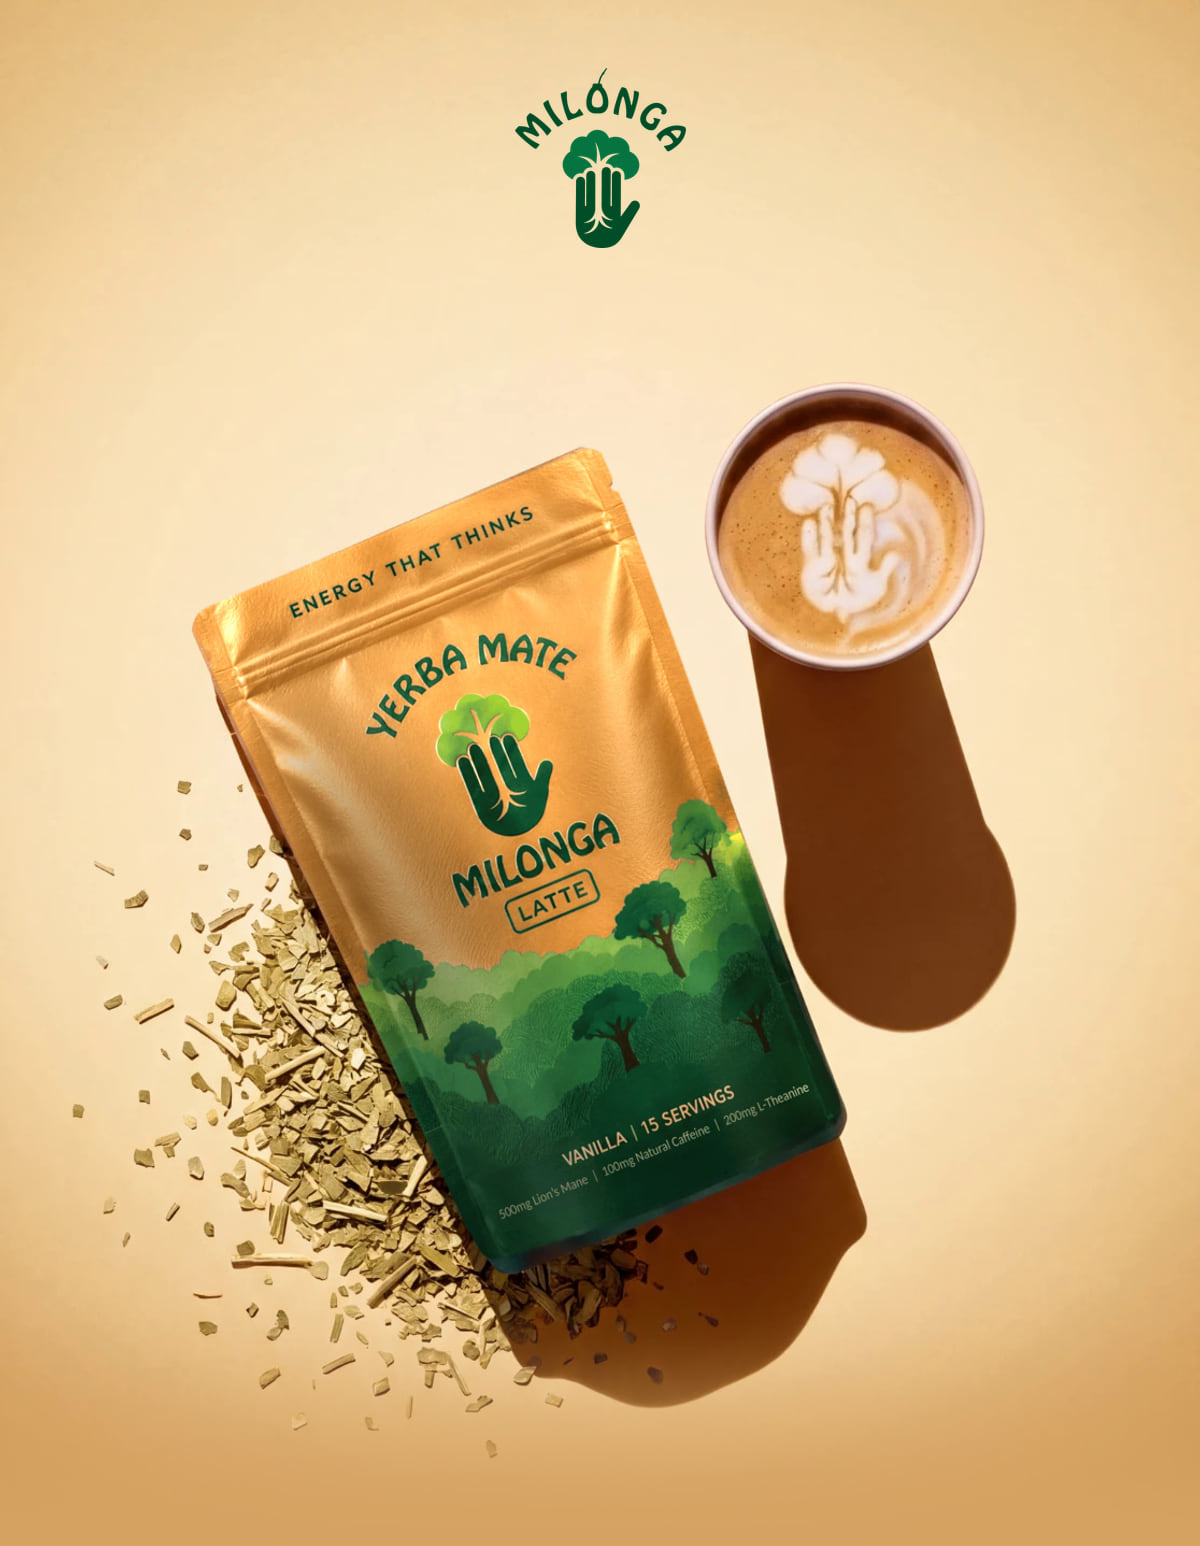
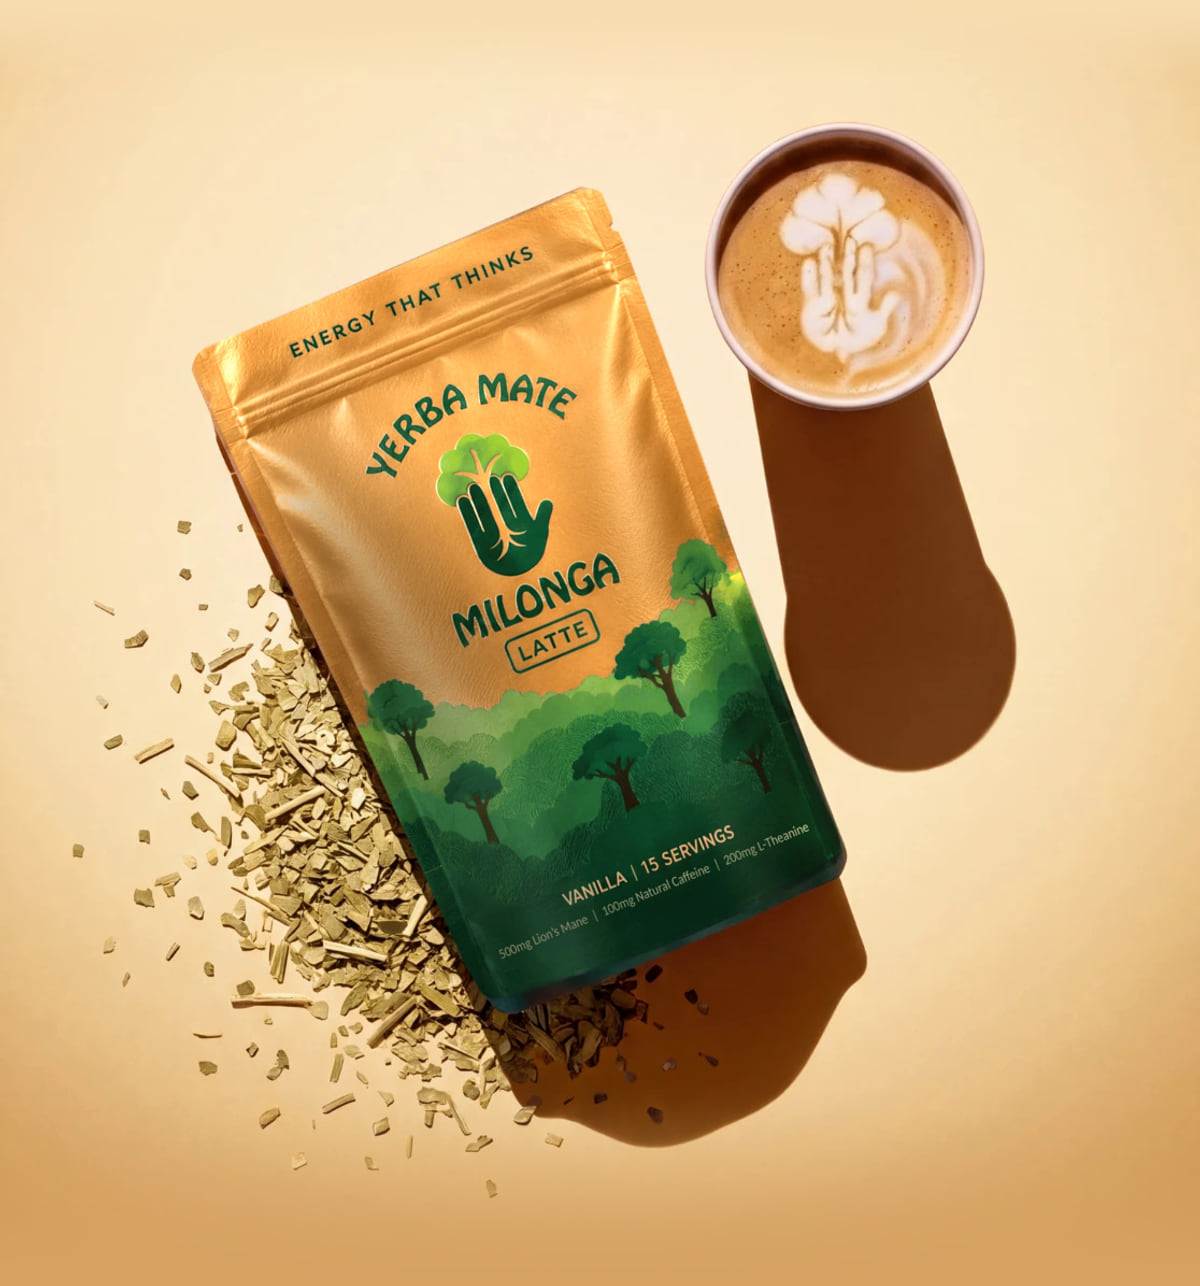
Cart E1: text above the photos, variant image from Shopify's Added to Cart, free frother + scoop in the club card, current prices
Claude-Session: https://claude.ai/code/session_01NhEtXPnfeCJfN73SqBkUZ5

diff --git a/email-ds/refine/cart-e1.html b/email-ds/refine/cart-e1.html
@@ -16,8 +16,8 @@ body{margin:0;background:#FFFFFF;padding:28px 0 60px}
   CART ABANDONMENT · MATE LATTE · EMAIL 1 · "You left something good behind ☕" · the whole email
   Preview text: We saved your cart. Your creamy vanilla mornings are one click away.
   Send: 1 hour after Added to Cart (Mate Latte in the cart). No discount.
-  One complete HTML email for a Klaviyo CODE template. The cart rows show the first
-  item of the Added to Cart event's items list.
+  One complete HTML email for a Klaviyo CODE template. The cart rows read Shopify's Added to Cart
+  event (the variant's image, price and quantity): trigger the flow on THAT event.
   GENERATED by scripts/make-cart-e1.mjs. Edit the script, not this file.
 -->
 <style>
@@ -54,7 +54,7 @@ body{margin:0;background:#FFFFFF;padding:28px 0 60px}
   @media (prefers-color-scheme: dark) {
     .bg-white { background-color:#FFFFFF !important; }
     .bg-page { background-color:#F0EFDF !important; }
-    .bg-hero-top { background-color:#E8C58D !important; }
+    .bg-hero-top { background-color:#F6DCAF !important; }
     .bg-hero { background-color:#D5A262 !important; }
     .bg-wall { background-color:#E4B77E !important; }
     .bg-table { background-color:#EDE4D9 !important; }
@@ -64,25 +64,26 @@ body{margin:0;background:#FFFFFF;padding:28px 0 60px}
 <tr><td align="center">
 <table role="presentation" class="wrap" width="600" cellpadding="0" cellspacing="0" border="0" style="width:600px;max-width:600px;table-layout:fixed;">
 
-<!-- ── 1 · YOUR MATE LATTE IS WAITING (the photo is the section's background:
-     its top and bottom fade into the flat golds of the rows around it, and the
-     same gold carries on under Klaviyo's cart block and the button) ── -->
-<tr><td class="bg-hero-top" bgcolor="#E8C58D" style="background-color:#E8C58D;padding:0;font-size:0;line-height:0;"><a href="{{ event.extra.checkout_url|default:'https://milonga.life/cart' }}" target="_blank"><img class="full" src="../exports/klaviyo/cart-e1/img/hero.jpg" width="600" height="773" alt="Milonga. The Mate Latte pouch beside a latte, with loose yerba mate on a golden table" style="display:block;width:600px;height:773px;border:0;"></a></td></tr>
-<tr><td class="pad bg-hero" align="center" bgcolor="#D5A262" style="background-color:#D5A262;padding:6px 40px 10px;font-family:'Montserrat','Helvetica Neue',Helvetica,Arial,sans-serif;">
-<div style="font-size:12px;line-height:16px;font-weight:700;letter-spacing:3px;text-transform:uppercase;color:#FFFFFF;">You left something good behind</div>
-<div class="h-hero" style="padding-top:10px;font-family:'Times New Roman',Times,Georgia,serif;font-size:54px;line-height:58px;font-weight:400;color:#FFFFFF;">Your Mate Latte</div>
-<div class="h-hero" style="font-family:'Times New Roman',Times,Georgia,serif;font-size:54px;line-height:58px;font-weight:700;font-style:italic;color:#FFFFFF;">is waiting.</div>
+<!-- ── 1 · YOUR MATE LATTE IS WAITING · v2 (Bernat, 2026-11-18): logo, title and text ABOVE the bag and
+     the cup, on the photo's own top gold; the photo (no baked-in logo now) follows, and its bottom fades into
+     the deeper gold under the cart and the button ── -->
+<tr><td class="pad bg-hero-top" align="center" bgcolor="#F6DCAF" style="background-color:#F6DCAF;padding:34px 40px 6px;font-family:'Montserrat','Helvetica Neue',Helvetica,Arial,sans-serif;">
+<a href="https://milonga.life/?utm_source=klaviyo&amp;utm_medium=email&amp;utm_campaign=cart_abandon_mate_latte&amp;utm_content=c1_logo" target="_blank" style="display:block;"><img class="hero-logo" src="../exports/klaviyo/welcome-e1/img/logo-green.png" width="85" height="90" alt="Milonga" style="display:block;margin:0 auto;width:85px;height:90px;border:0;"></a>
+<div style="padding-top:26px;"><div style="font-size:12px;line-height:16px;font-weight:700;letter-spacing:3px;text-transform:uppercase;color:#004D27;">You left something good behind</div></div>
+<div class="h-hero" style="padding-top:10px;font-family:'Times New Roman',Times,Georgia,serif;font-size:54px;line-height:58px;font-weight:400;color:#004D27;">Your Mate Latte</div>
+<div class="h-hero" style="font-family:'Times New Roman',Times,Georgia,serif;font-size:54px;line-height:58px;font-weight:700;font-style:italic;color:#004D27;">is waiting.</div>
 <div style="padding-top:14px;font-size:16px;line-height:24px;font-weight:500;color:#12331F;">We saved your cart, so it&rsquo;s right where you left it. <span style="white-space:nowrap;">Here&rsquo;s what&rsquo;s inside:</span></div>
 </td></tr>
+<tr><td class="bg-hero-top" bgcolor="#F6DCAF" style="background-color:#F6DCAF;padding:0;font-size:0;line-height:0;"><a href="{{ event.extra.checkout_url|default:'https://milonga.life/cart' }}" target="_blank"><img class="full" src="../exports/klaviyo/cart-e1/img/hero.jpg" width="600" height="643" alt="The Mate Latte pouch beside a latte, with loose yerba mate on a golden table" style="display:block;width:600px;height:643px;border:0;"></a></td></tr>
 <tr><td class="pad-photo bg-hero" bgcolor="#D5A262" style="background-color:#D5A262;padding:6px 30px 4px;">
 <table role="presentation" width="100%" cellpadding="0" cellspacing="0" border="0" bgcolor="#FFFFFF" style="border-collapse:separate;table-layout:fixed;background-color:#FFFFFF;border-radius:18px;"><tr>
-<td class="cart-img" width="88" valign="middle" style="width:88px;padding:14px 0 14px 16px;"><a href="{{ event.extra.checkout_url|default:'https://milonga.life/cart' }}" target="_blank"><img src="../exports/klaviyo/cart-e1/img/cart-pouch.png" width="72" height="72" alt="Your Mate Latte" style="display:block;width:72px;height:72px;border:0;border-radius:10px;object-fit:contain;"></a></td>
+<td class="cart-img" width="88" valign="middle" style="width:88px;padding:14px 0 14px 16px;"><a href="{{ event.extra.checkout_url|default:'https://milonga.life/cart' }}" target="_blank"><img src="https://cdn.shopify.com/s/files/1/0841/2699/0646/files/BEST_VALUE_3_4K.jpg?v=1794415323&width=240" width="72" height="72" alt="Your Mate Latte" style="display:block;width:72px;height:72px;border:0;border-radius:10px;object-fit:contain;"></a></td>
 <td valign="middle" style="padding:14px 10px 14px 14px;font-family:'Montserrat','Helvetica Neue',Helvetica,Arial,sans-serif;word-break:break-word;overflow-wrap:anywhere;">
 <div style="font-size:11px;line-height:14px;font-weight:700;letter-spacing:2px;text-transform:uppercase;color:#3B5344;">In your cart</div>
 <div class="cart-title" style="padding-top:4px;font-size:16px;line-height:21px;font-weight:700;color:#12331F;">The Original Mate Latte - Vanilla</div>
-<div style="padding-top:3px;font-size:13px;line-height:18px;font-weight:500;color:#3B5344;">30 Servings &middot; Qty 1</div>
+<div style="padding-top:3px;font-size:13px;line-height:18px;font-weight:500;color:#3B5344;">Qty 1</div>
 </td>
-<td class="cart-price" width="96" align="right" valign="middle" style="width:96px;padding:14px 18px 14px 0;font-family:'Times New Roman',Times,Georgia,serif;font-size:22px;line-height:24px;font-weight:700;color:#004D27;word-break:break-word;overflow-wrap:anywhere;">$69.98</td>
+<td class="cart-price" width="96" align="right" valign="middle" style="width:96px;padding:14px 18px 14px 0;font-family:'Times New Roman',Times,Georgia,serif;font-size:22px;line-height:24px;font-weight:700;color:#004D27;word-break:break-word;overflow-wrap:anywhere;">$37.79</td>
 </tr></table>
 </td></tr>
 
@@ -127,7 +128,7 @@ body{margin:0;background:#FFFFFF;padding:28px 0 60px}
   @media (prefers-color-scheme: dark) {
     .bg-white { background-color:#FFFFFF !important; }
     .bg-page { background-color:#F0EFDF !important; }
-    .bg-hero-top { background-color:#E8C58D !important; }
+    .bg-hero-top { background-color:#F6DCAF !important; }
     .bg-hero { background-color:#D5A262 !important; }
     .bg-wall { background-color:#E4B77E !important; }
     .bg-table { background-color:#EDE4D9 !important; }
@@ -157,9 +158,9 @@ body{margin:0;background:#FFFFFF;padding:28px 0 60px}
 <table role="presentation" width="100%" cellpadding="0" cellspacing="0" border="0" style="border-collapse:separate;"><tr>
 <td class="cmp-card" align="center" valign="top" bgcolor="#FFFFFF" style="background-color:#FFFFFF;border:2px solid #D9D6BE;border-radius:22px; padding:24px 16px 22px;font-family:'Montserrat','Helvetica Neue',Helvetica,Arial,sans-serif;">
 <div style="font-size:11px;line-height:14px;font-weight:700;letter-spacing:2px;text-transform:uppercase;color:#004D27;">One-time</div>
-<div class="cmp-price" style="padding-top:12px;font-family:'Times New Roman',Times,Georgia,serif;font-size:40px;line-height:42px;font-weight:700;color:#004D27;">$69.98</div>
+<div class="cmp-price" style="padding-top:12px;font-family:'Times New Roman',Times,Georgia,serif;font-size:40px;line-height:42px;font-weight:700;color:#004D27;">$62.98</div>
 <div class="cmp-text" style="padding-top:6px;font-size:14px;line-height:18px;font-weight:700;color:#12331F;">30 servings</div>
-<div class="cmp-text" style="padding-top:2px;font-size:13px;line-height:18px;font-weight:500;color:#3B5344;">$2.33 a cup</div>
+<div class="cmp-text" style="padding-top:2px;font-size:13px;line-height:18px;font-weight:500;color:#3B5344;">$2.10 a cup</div>
 <div style="margin:16px auto 0;width:40px;border-top:2px solid #D9D6BE;font-size:0;line-height:0;">&nbsp;</div>
 <div class="cmp-text" style="padding-top:8px;font-size:13px;line-height:18px;font-weight:500;color:#12331F;">Buy once, reorder when you <span style="white-space:nowrap;">run out</span></div>
 <div style="padding-top:18px;"><table role="presentation" cellpadding="0" cellspacing="0" border="0" align="center" style="margin:0 auto;border-collapse:separate;"><tr>
@@ -172,9 +173,9 @@ body{margin:0;background:#FFFFFF;padding:28px 0 60px}
 <td class="cmp-card" align="center" valign="top" bgcolor="#004D27" style="background-color:#004D27;border:3px solid #E3BC62;border-radius:22px; padding:24px 16px 22px;font-family:'Montserrat','Helvetica Neue',Helvetica,Arial,sans-serif;">
 <div style="display:inline-block;background-color:#E3BC62;border-radius:999px;padding:5px 12px;font-size:10px;line-height:12px;font-weight:700;letter-spacing:1.5px;text-transform:uppercase;color:#004D27;">Best value</div>
 <div style="padding-top:10px;font-family:'Times New Roman',Times,Georgia,serif;font-size:20px;line-height:22px;font-weight:700;font-style:italic;color:#E3BC62;">Mate Mornings Club</div>
-<div class="cmp-price" style="padding-top:8px;font-family:'Times New Roman',Times,Georgia,serif;font-size:40px;line-height:42px;font-weight:700;color:#FFFFFF;">$48.99</div>
-<div class="cmp-text" style="padding-top:6px;font-size:14px;line-height:18px;font-weight:700;color:#FFFFFF;">30 servings <span style="font-weight:500;color:#CFE0D4;text-decoration:line-through;">$69.98</span></div>
-<div class="cmp-text" style="padding-top:2px;font-size:13px;line-height:18px;font-weight:500;color:#CFE0D4;">$1.63 a cup</div>
+<div class="cmp-price" style="padding-top:8px;font-family:'Times New Roman',Times,Georgia,serif;font-size:40px;line-height:42px;font-weight:700;color:#FFFFFF;">$44.09</div>
+<div class="cmp-text" style="padding-top:6px;font-size:14px;line-height:18px;font-weight:700;color:#FFFFFF;">30 servings <span style="font-weight:500;color:#CFE0D4;text-decoration:line-through;">$62.98</span></div>
+<div class="cmp-text" style="padding-top:2px;font-size:13px;line-height:18px;font-weight:500;color:#CFE0D4;">$1.47 a cup</div>
 <div style="margin:16px auto 6px;width:40px;border-top:2px solid rgba(227,188,98,.6);font-size:0;line-height:0;">&nbsp;</div>
 <table role="presentation" cellpadding="0" cellspacing="0" border="0" align="center" style="margin:0 auto;">
 <tr><td class="club-ico" width="20" valign="top" style="width:20px;padding:9px 8px 0 0;"><img src="../exports/klaviyo/cart-e1/img/icon-save.png" width="18" height="18" alt="" role="presentation" style="display:block;width:18px;height:18px;border:0;"></td>
@@ -183,6 +184,8 @@ body{margin:0;background:#FFFFFF;padding:28px 0 60px}
 <td class="cmp-text" valign="top" style="padding:8px 0 0;font-family:'Montserrat','Helvetica Neue',Helvetica,Arial,sans-serif;font-size:13px;line-height:18px;font-weight:500;color:#FFFFFF;text-align:left;">Delivered to your door <span style="white-space:nowrap;">every month</span></td></tr>
 <tr><td class="club-ico" width="20" valign="top" style="width:20px;padding:9px 8px 0 0;"><img src="../exports/klaviyo/cart-e1/img/icon-pause.png" width="18" height="18" alt="" role="presentation" style="display:block;width:18px;height:18px;border:0;"></td>
 <td class="cmp-text" valign="top" style="padding:8px 0 0;font-family:'Montserrat','Helvetica Neue',Helvetica,Arial,sans-serif;font-size:13px;line-height:18px;font-weight:500;color:#FFFFFF;text-align:left;">Skip, pause or cancel anytime</td></tr>
+<tr><td class="club-ico" width="20" valign="top" style="width:20px;padding:9px 8px 0 0;"><img src="../exports/klaviyo/cart-e1/img/icon-gift.png" width="18" height="18" alt="" role="presentation" style="display:block;width:18px;height:18px;border:0;"></td>
+<td class="cmp-text" valign="top" style="padding:8px 0 0;font-family:'Montserrat','Helvetica Neue',Helvetica,Arial,sans-serif;font-size:13px;line-height:18px;font-weight:500;color:#FFFFFF;text-align:left;">Free frother + scoop</td></tr>
 </table>
 <div class="cmp-text" style="padding-top:12px;font-size:13px;line-height:18px;font-weight:700;color:#E3BC62;">Your Mate Latte every morning, <span style="white-space:nowrap;">all month long.</span></div>
 <div style="padding-top:16px;"><table role="presentation" cellpadding="0" cellspacing="0" border="0" align="center" style="margin:0 auto;border-collapse:separate;"><tr>
@@ -193,10 +196,9 @@ body{margin:0;background:#FFFFFF;padding:28px 0 60px}
 </tr></table>
 </td></tr>
 
-<!-- ── 3 · ONE CUP, EVERYTHING YOU NEED (the pour photo; the title and the
-     benefits sit on its table, below the cup) ── -->
-<tr><td class="bg-wall" bgcolor="#E4B77E" style="background-color:#E4B77E;padding:0;font-size:0;line-height:0;"><img class="full" src="../exports/klaviyo/cart-e1/img/final.jpg" width="600" height="600" alt="Milk pouring into an iced Mate Latte beside the pouch" style="display:block;width:600px;height:600px;border:0;"></td></tr>
-<tr><td class="pad bg-table" align="center" bgcolor="#EDE4D9" style="background-color:#EDE4D9;padding:6px 40px 30px;font-family:'Montserrat','Helvetica Neue',Helvetica,Arial,sans-serif;">
+<!-- ── 3 · ONE CUP, EVERYTHING YOU NEED · v2 (Bernat, 2026-11-18): the title and the benefits ABOVE the hand
+     pouring the milk and the bag; the pour photo follows and fades into the same cream ── -->
+<tr><td class="pad bg-table" align="center" bgcolor="#EDE4D9" style="background-color:#EDE4D9;padding:52px 40px 30px;font-family:'Montserrat','Helvetica Neue',Helvetica,Arial,sans-serif;">
 <div style="font-size:12px;line-height:16px;font-weight:700;letter-spacing:3px;text-transform:uppercase;color:#004D27;">Why it&rsquo;s worth coming back for</div>
 <div class="h-sec" style="padding-top:12px;font-family:'Times New Roman',Times,Georgia,serif;font-size:40px;line-height:44px;font-weight:400;color:#004D27;">One cup,</div>
 <div class="h-sec" style="font-family:'Times New Roman',Times,Georgia,serif;font-size:40px;line-height:44px;font-weight:700;font-style:italic;color:#004D27;">everything you need.</div>
@@ -223,22 +225,23 @@ body{margin:0;background:#FFFFFF;padding:28px 0 60px}
 </td>
 </tr></table>
 </td></tr>
-<tr><td class="pad bg-table" align="center" bgcolor="#EDE4D9" style="background-color:#EDE4D9;padding:26px 40px 0;font-family:'Montserrat','Helvetica Neue',Helvetica,Arial,sans-serif;">
+<tr><td class="pad bg-table" align="center" bgcolor="#EDE4D9" style="background-color:#EDE4D9;padding:26px 40px 36px;font-family:'Montserrat','Helvetica Neue',Helvetica,Arial,sans-serif;">
 <div style="font-size:14px;line-height:21px;font-weight:500;color:#12331F;">Plus yerba mate&rsquo;s antioxidants and vitamins, which support a healthy gut, your immune system and your metabolism. <strong style="font-weight:700;color:#004D27;"><span style="white-space:nowrap;">Ready in 30 seconds,</span> <span style="white-space:nowrap;">hot or iced.</span></strong></div>
 </td></tr>
-<tr><td class="pad bg-table" align="center" bgcolor="#EDE4D9" style="background-color:#EDE4D9;padding:44px 40px 12px;font-family:'Montserrat','Helvetica Neue',Helvetica,Arial,sans-serif;">
+<tr><td class="bg-wall" bgcolor="#E4B77E" style="background-color:#E4B77E;padding:0;font-size:0;line-height:0;"><img class="full" src="../exports/klaviyo/cart-e1/img/final.jpg" width="600" height="600" alt="Milk pouring into an iced Mate Latte beside the pouch" style="display:block;width:600px;height:600px;border:0;"></td></tr>
+<tr><td class="pad bg-table" align="center" bgcolor="#EDE4D9" style="background-color:#EDE4D9;padding:12px 40px 12px;font-family:'Montserrat','Helvetica Neue',Helvetica,Arial,sans-serif;">
 <div class="h-sec" style="padding-top:0px;font-family:'Times New Roman',Times,Georgia,serif;font-size:34px;line-height:38px;font-weight:400;color:#004D27;">Your cart&rsquo;s all set.</div>
 <div class="h-sec" style="font-family:'Times New Roman',Times,Georgia,serif;font-size:34px;line-height:38px;font-weight:700;font-style:italic;color:#004D27;">Ready when you are.</div>
 </td></tr>
 <tr><td class="pad-photo bg-table" bgcolor="#EDE4D9" style="background-color:#EDE4D9;padding:6px 30px 4px;">
 <table role="presentation" width="100%" cellpadding="0" cellspacing="0" border="0" bgcolor="#FFFFFF" style="border-collapse:separate;table-layout:fixed;background-color:#FFFFFF;border-radius:18px;"><tr>
-<td class="cart-img" width="88" valign="middle" style="width:88px;padding:14px 0 14px 16px;"><a href="{{ event.extra.checkout_url|default:'https://milonga.life/cart' }}" target="_blank"><img src="../exports/klaviyo/cart-e1/img/cart-pouch.png" width="72" height="72" alt="Your Mate Latte" style="display:block;width:72px;height:72px;border:0;border-radius:10px;object-fit:contain;"></a></td>
+<td class="cart-img" width="88" valign="middle" style="width:88px;padding:14px 0 14px 16px;"><a href="{{ event.extra.checkout_url|default:'https://milonga.life/cart' }}" target="_blank"><img src="https://cdn.shopify.com/s/files/1/0841/2699/0646/files/BEST_VALUE_3_4K.jpg?v=1794415323&width=240" width="72" height="72" alt="Your Mate Latte" style="display:block;width:72px;height:72px;border:0;border-radius:10px;object-fit:contain;"></a></td>
 <td valign="middle" style="padding:14px 10px 14px 14px;font-family:'Montserrat','Helvetica Neue',Helvetica,Arial,sans-serif;word-break:break-word;overflow-wrap:anywhere;">
 <div style="font-size:11px;line-height:14px;font-weight:700;letter-spacing:2px;text-transform:uppercase;color:#3B5344;">In your cart</div>
 <div class="cart-title" style="padding-top:4px;font-size:16px;line-height:21px;font-weight:700;color:#12331F;">The Original Mate Latte - Vanilla</div>
-<div style="padding-top:3px;font-size:13px;line-height:18px;font-weight:500;color:#3B5344;">30 Servings &middot; Qty 1</div>
+<div style="padding-top:3px;font-size:13px;line-height:18px;font-weight:500;color:#3B5344;">Qty 1</div>
 </td>
-<td class="cart-price" width="96" align="right" valign="middle" style="width:96px;padding:14px 18px 14px 0;font-family:'Times New Roman',Times,Georgia,serif;font-size:22px;line-height:24px;font-weight:700;color:#004D27;word-break:break-word;overflow-wrap:anywhere;">$69.98</td>
+<td class="cart-price" width="96" align="right" valign="middle" style="width:96px;padding:14px 18px 14px 0;font-family:'Times New Roman',Times,Georgia,serif;font-size:22px;line-height:24px;font-weight:700;color:#004D27;word-break:break-word;overflow-wrap:anywhere;">$37.79</td>
 </tr></table>
 </td></tr>
 
@@ -283,7 +286,7 @@ body{margin:0;background:#FFFFFF;padding:28px 0 60px}
   @media (prefers-color-scheme: dark) {
     .bg-white { background-color:#FFFFFF !important; }
     .bg-page { background-color:#F0EFDF !important; }
-    .bg-hero-top { background-color:#E8C58D !important; }
+    .bg-hero-top { background-color:#F6DCAF !important; }
     .bg-hero { background-color:#D5A262 !important; }
     .bg-wall { background-color:#E4B77E !important; }
     .bg-table { background-color:#EDE4D9 !important; }
